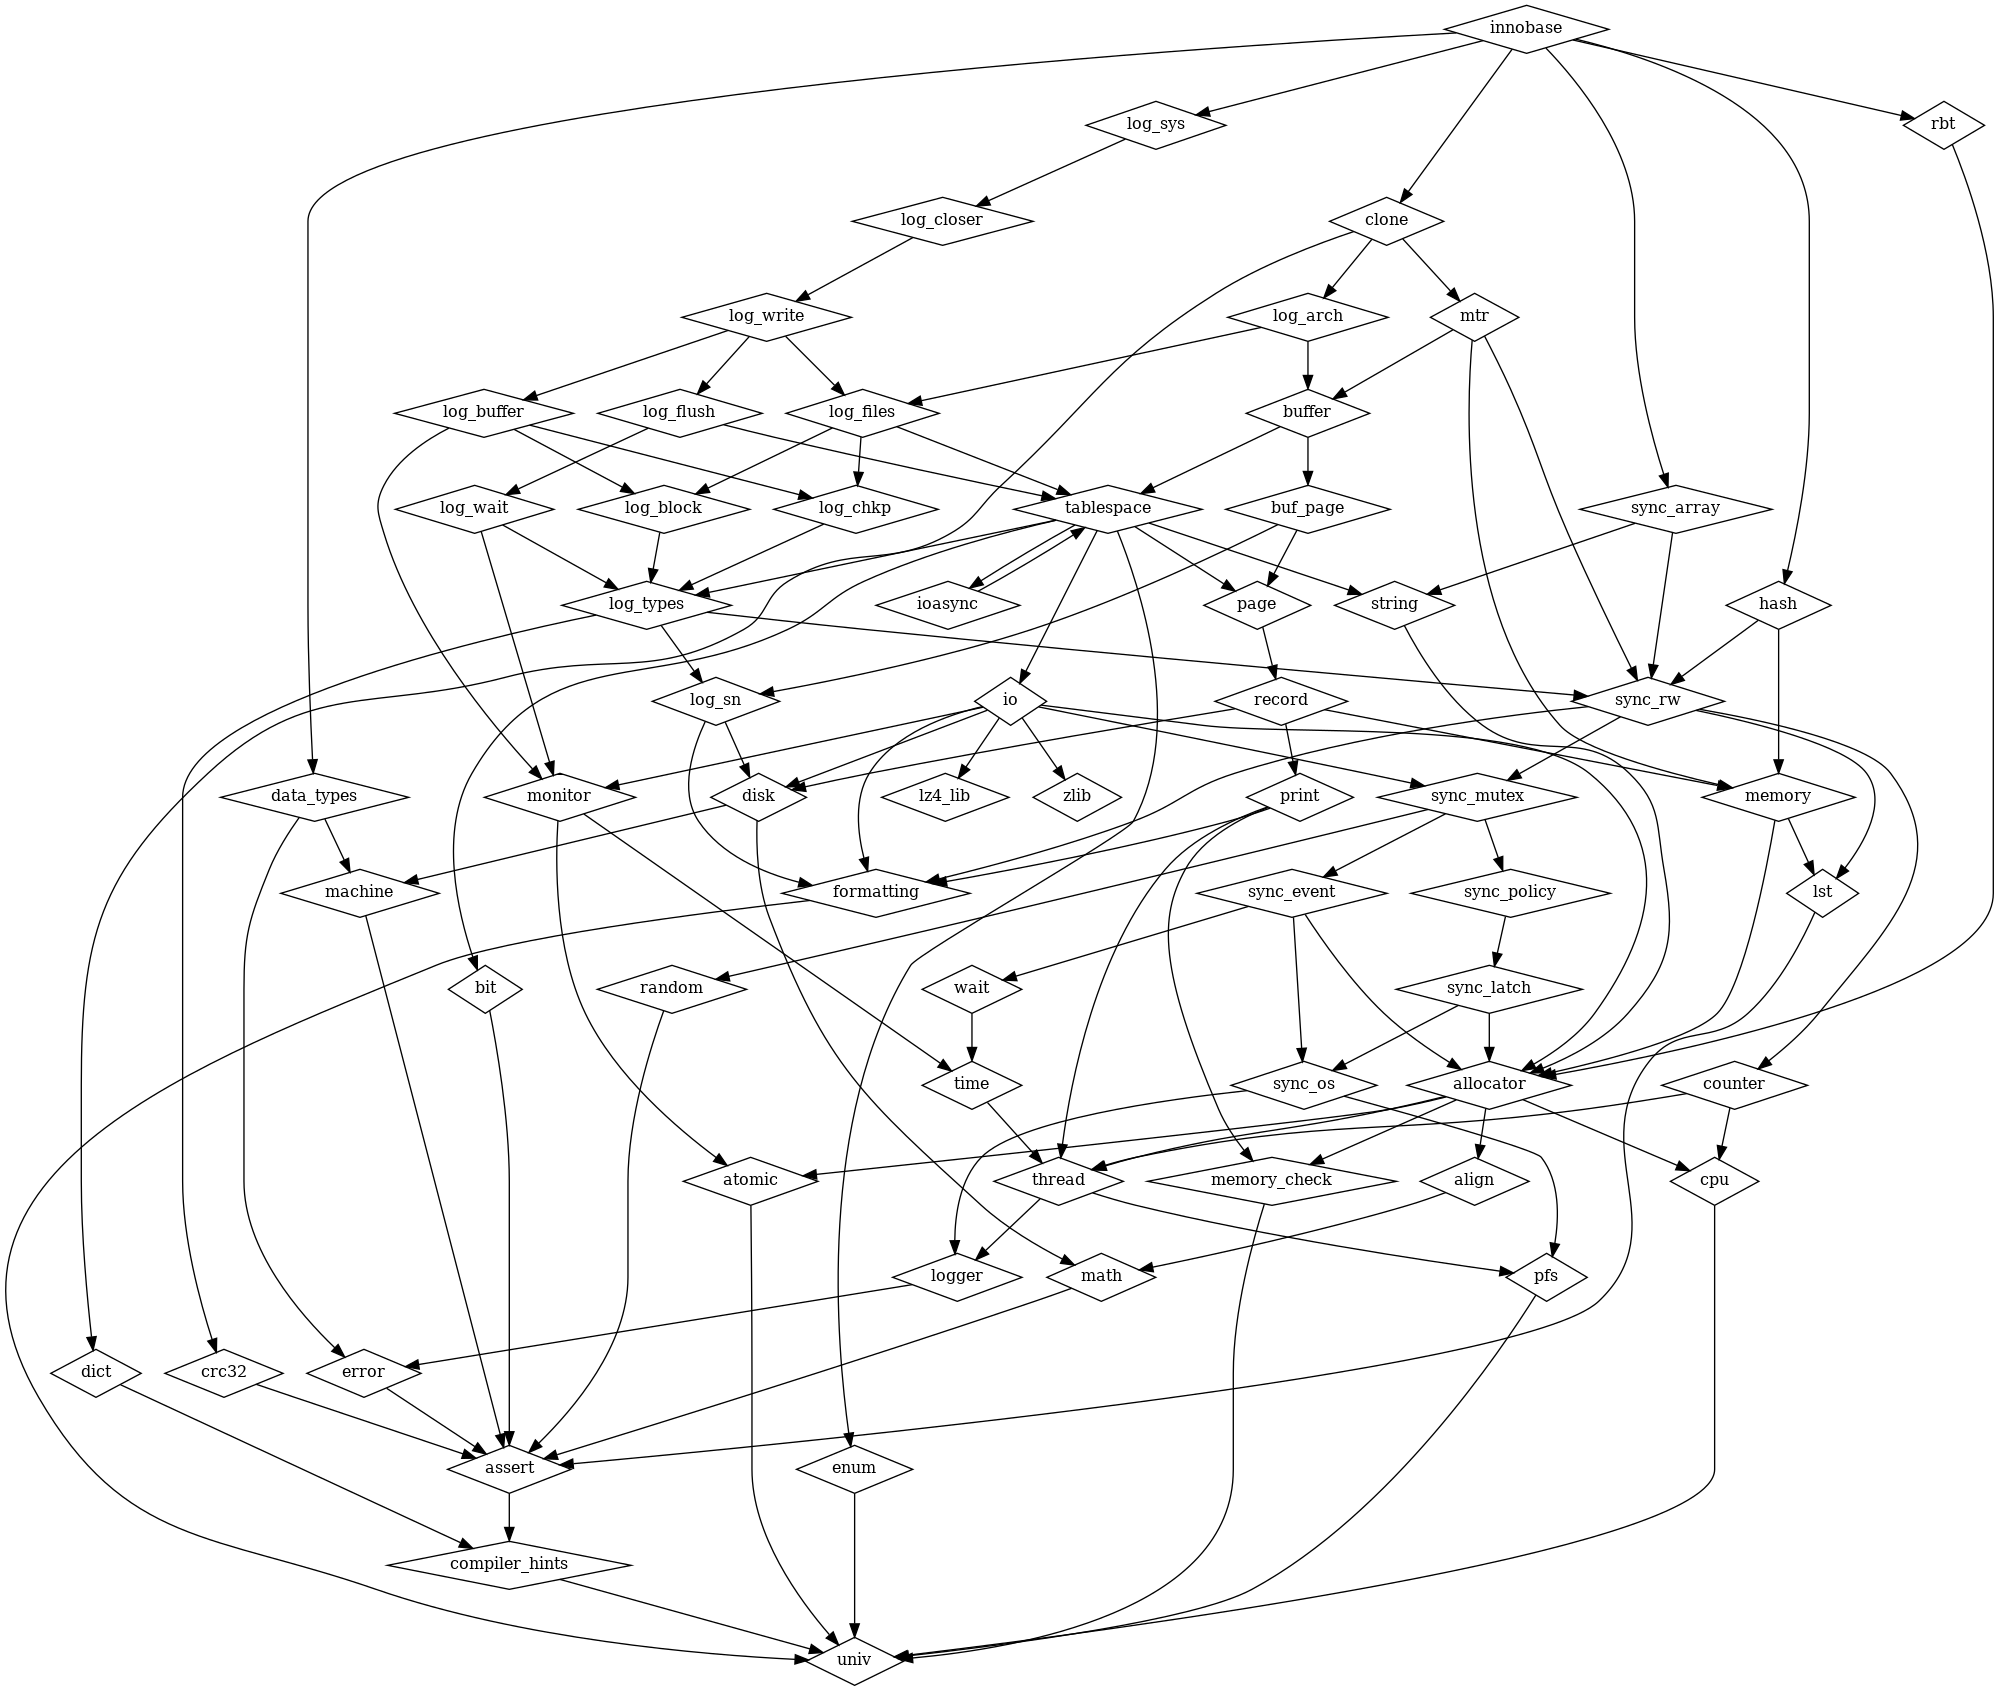
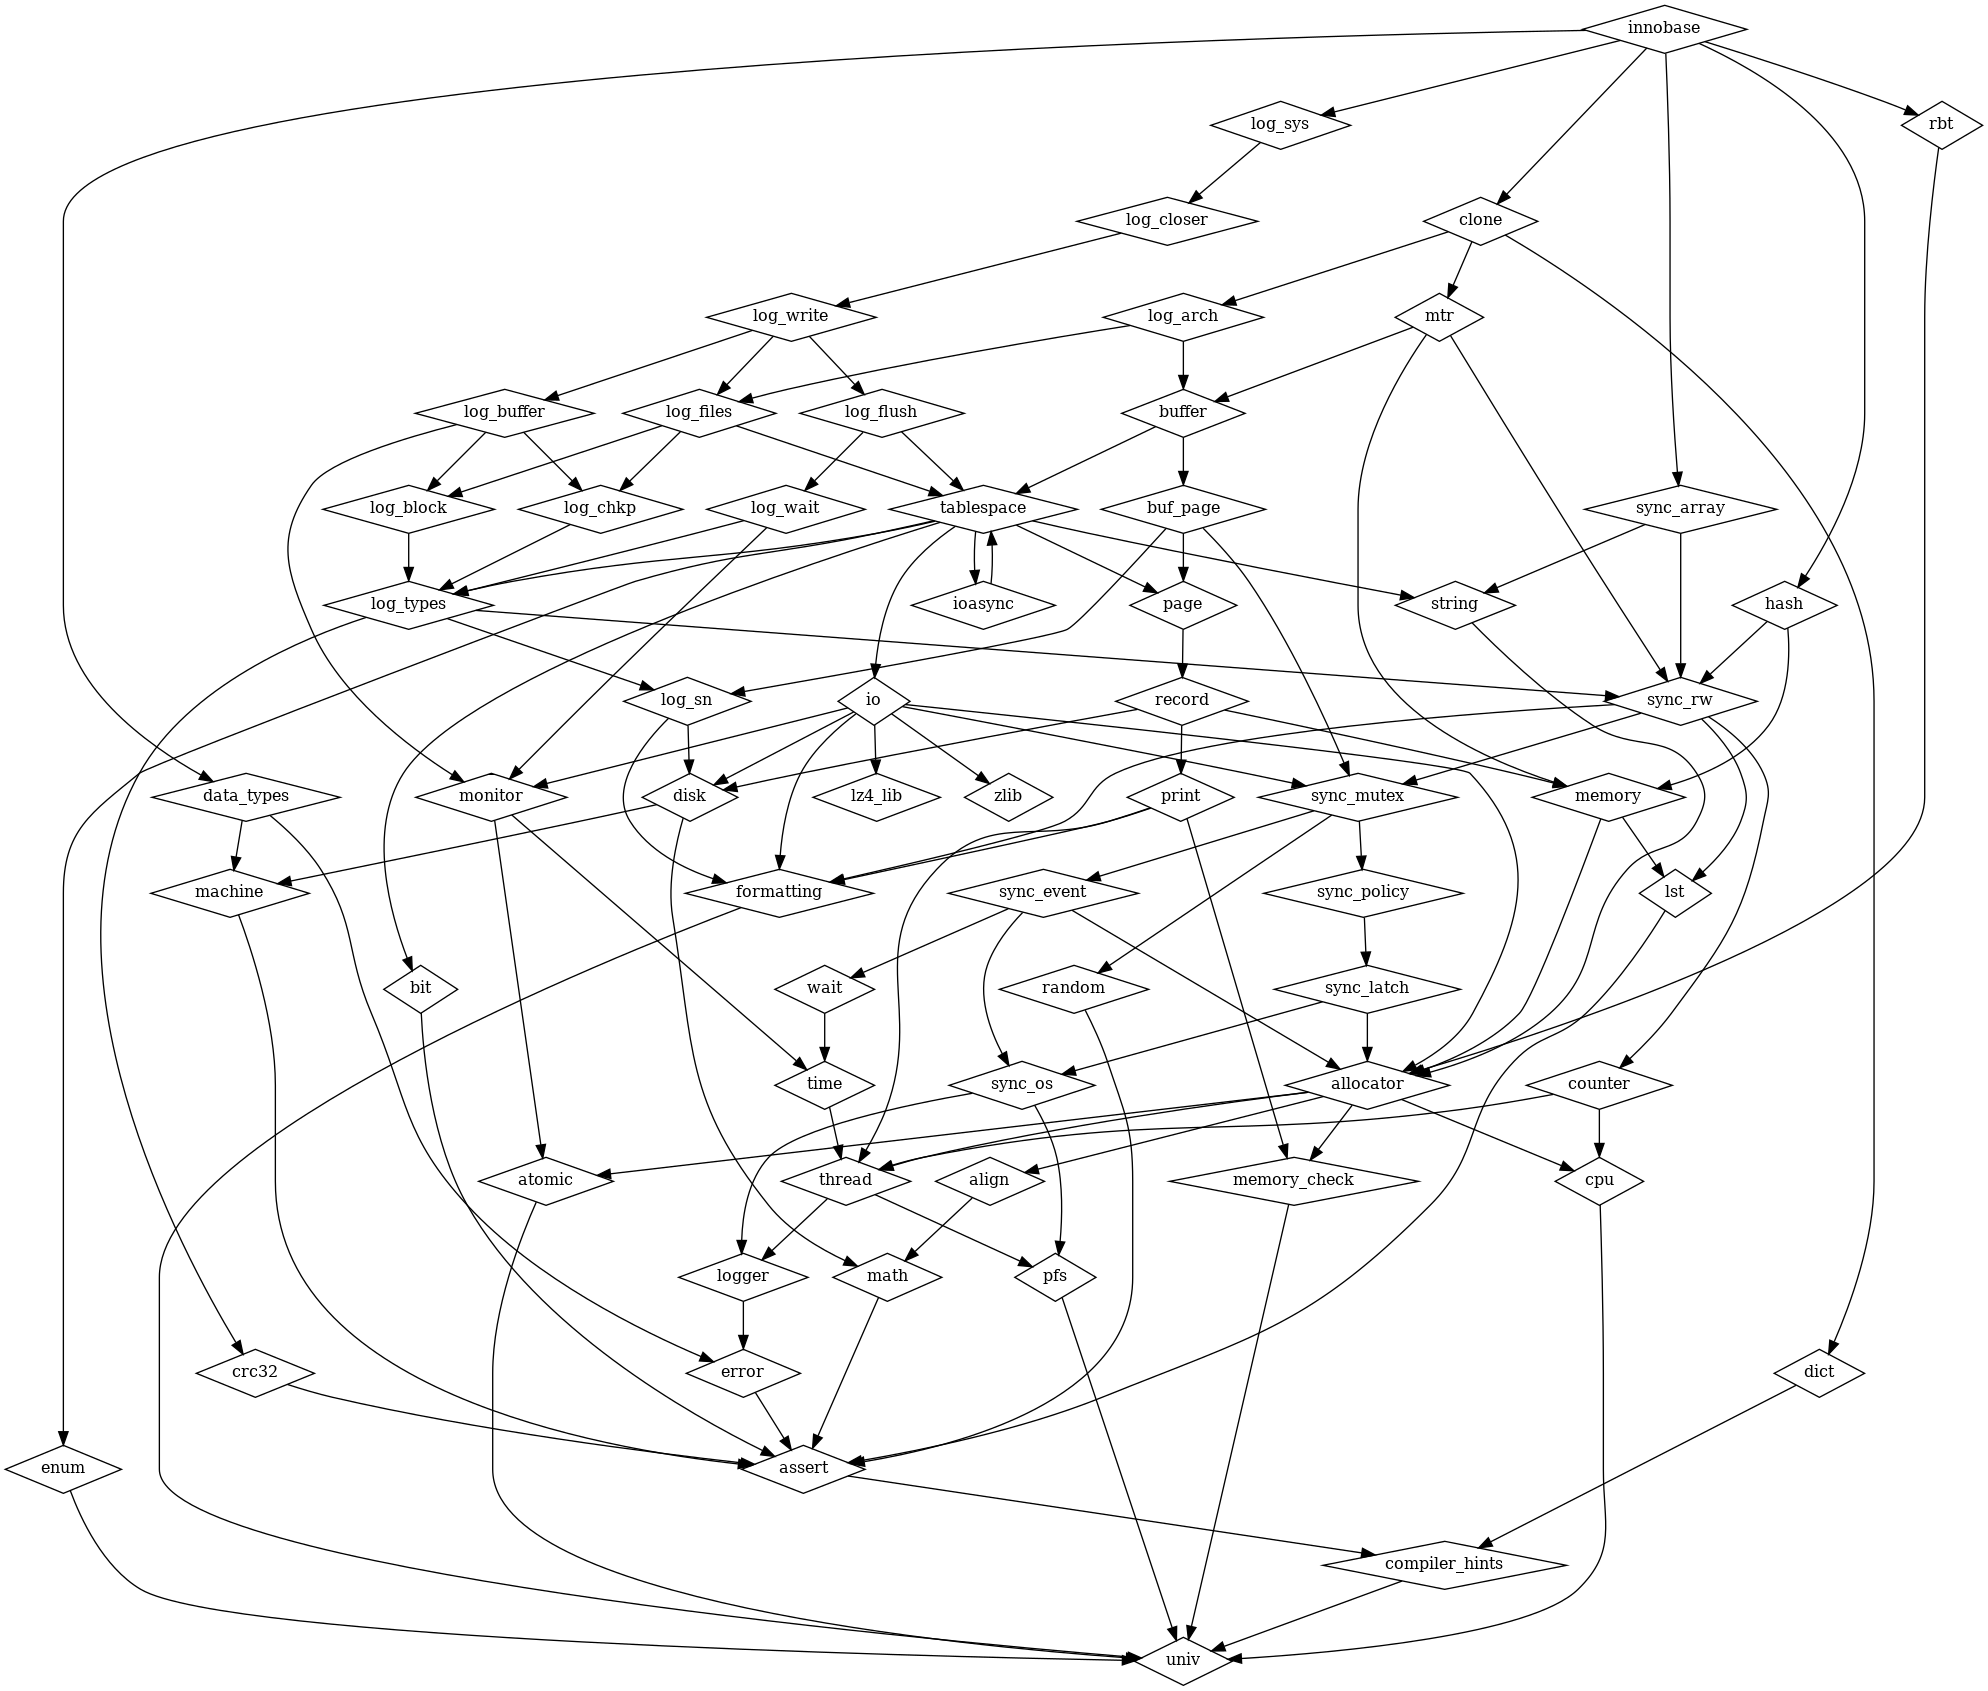
Extend buf_page library

diff --git a/storage/innobase/buf/buf0lru.cc b/storage/innobase/buf/buf0lru.cc
@@ -42,23 +42,23 @@ this program; if not, write to the Free Software Foundation, Inc.,
 #include <innodb/buffer/buf_pool_from_array.h>
 #include <innodb/buffer/buf_get_withdraw_depth.h>
 #include <innodb/buf_page/buf_page_alloc_descriptor.h>
-#include <innodb/buffer/buf_page_free_descriptor.h>
+#include <innodb/buf_page/buf_page_free_descriptor.h>
 #include <innodb/buffer/buf_page_get_mutex.h>
 #include <innodb/buffer/buf_page_unset_sticky.h>
 #include <innodb/buffer/buf_page_get_io_fix_unlocked.h>
 #include <innodb/buffer/buf_page_get_io_fix.h>
 #include <innodb/buffer/buf_page_set_io_fix.h>
 #include <innodb/buffer/buf_page_set_old.h>
-#include <innodb/buffer/buf_page_is_old.h>
+#include <innodb/buf_page/buf_page_is_old.h>
 #include <innodb/buffer/buf_page_can_relocate.h>
 #include <innodb/buf_page/buf_page_in_file.h>
 #include <innodb/buf_page/buf_page_get_state.h>
 #include <innodb/buffer/buf_page_belongs_to_unzip_LRU.h>
 #include <innodb/buffer/buf_block_set_state.h>
 #include <innodb/buffer/buf_pool_from_bpage.h>
-#include <innodb/buffer/buf_page_set_state.h>
+#include <innodb/buf_page/buf_page_set_state.h>
 #include <innodb/buffer/buf_pool_t.h>
-#include <innodb/buffer/buf_page_is_accessed.h>
+#include <innodb/buf_page/buf_page_is_accessed.h>
 #include <innodb/buffer/CheckInLRUList.h>
 #include <innodb/buffer/CheckInFreeList.h>
 #include <innodb/buffer/CheckUnzipLRUAndLRUList.h>

diff --git a/storage/innobase/buf/buf0buf.cc b/storage/innobase/buf/buf0buf.cc
@@ -83,7 +83,7 @@ this program; if not, write to the Free Software Foundation, Inc.,
 #include <innodb/buffer/buf_pool_get.h>
 #include <innodb/buffer/buf_block_fix.h>
 #include <innodb/buffer/buf_block_buf_fix_dec.h>
-#include <innodb/buffer/buf_page_free_descriptor.h>
+#include <innodb/buf_page/buf_page_free_descriptor.h>
 #include <innodb/buffer/buf_page_set_accessed.h>
 #include <innodb/buf_page/buf_page_alloc_descriptor.h>
 #include <innodb/buffer/buf_page_get_block.h>
@@ -102,7 +102,7 @@ this program; if not, write to the Free Software Foundation, Inc.,
 #include <innodb/buffer/buf_pool_get_curr_size.h>
 #include <innodb/buffer/buf_pool_from_bpage.h>
 #include <innodb/buffer/buf_chunk_t.h>
-#include <innodb/buffer/buf_page_is_accessed.h>
+#include <innodb/buf_page/buf_page_is_accessed.h>
 #include <innodb/time/ut_time_ms.h>
 #include <innodb/buffer/CheckInLRUList.h>
 #include <innodb/buffer/buf_block_get_state.h>

diff --git a/storage/innobase/buf/buf0flu.cc b/storage/innobase/buf/buf0flu.cc
@@ -60,11 +60,11 @@ this program; if not, write to the Free Software Foundation, Inc.,
 #include <innodb/buffer/buf_page_set_io_fix.h>
 #include <innodb/buffer/buf_page_get_mutex.h>
 #include <innodb/buf_page/buf_page_set_flush_type.h>
-#include <innodb/buffer/buf_page_is_old.h>
+#include <innodb/buf_page/buf_page_is_old.h>
 #include <innodb/buffer/buf_pool_from_bpage.h>
 #include <innodb/buf_page/buf_page_in_file.h>
 #include <innodb/buf_page/buf_page_get_state.h>
-#include <innodb/buffer/buf_page_set_state.h>
+#include <innodb/buf_page/buf_page_set_state.h>
 #include <innodb/buffer/buf_pool_t.h>
 #include <innodb/time/ut_time_ms.h>
 #include <innodb/ioasync/os_aio_wait_until_no_pending_writes.h>

diff --git a/storage/innobase/buf/buf0rea.cc b/storage/innobase/buf/buf0rea.cc
@@ -38,7 +38,7 @@ this program; if not, write to the Free Software Foundation, Inc.,
 #include <innodb/buffer/buf_pool_get.h>
 #include <innodb/buf_page/buf_page_get_state.h>
 #include <innodb/buffer/buf_pool_t.h>
-#include <innodb/buffer/buf_page_is_accessed.h>
+#include <innodb/buf_page/buf_page_is_accessed.h>
 #include <innodb/ioasync/os_aio_simulated_wake_handler_threads.h>
 #include <innodb/ioasync/os_aio_simulated_put_read_threads_to_sleep.h>
 #include <innodb/io/IORequest.h>

diff --git a/storage/innobase/libs/buffer/src/buf_chunk_not_freed.cpp b/storage/innobase/libs/buffer/src/buf_chunk_not_freed.cpp
@@ -4,8 +4,8 @@
 #include <innodb/buffer/buf_chunk_t.h>
 #include <innodb/buffer/buf_block_get_state.h>
 #include <innodb/buffer/buf_flush_ready_for_replace.h>
-#include <innodb/buffer/buf_page_mutex_enter.h>
-#include <innodb/buffer/buf_page_mutex_exit.h>
+#include <innodb/buf_page/buf_page_mutex_enter.h>
+#include <innodb/buf_page/buf_page_mutex_exit.h>
 #include <innodb/error/ut_error.h>
 
 /** Checks that all file pages in the buffer chunk are in a replaceable state.

diff --git a/storage/innobase/clone/clone0snapshot.cc b/storage/innobase/clone/clone0snapshot.cc
@@ -38,8 +38,8 @@ this program; if not, write to the Free Software Foundation, Inc.,
 #include <innodb/buffer/Page_fetch.h>
 #include <innodb/log_types/log_sys.h>
 #include <innodb/log_types/log_get_lsn.h>
-#include <innodb/buffer/buf_page_mutex_exit.h>
-#include <innodb/buffer/buf_page_mutex_enter.h>
+#include <innodb/buf_page/buf_page_mutex_exit.h>
+#include <innodb/buf_page/buf_page_mutex_enter.h>
 
 #include "buf0buf.h"
 #include "fil0fil.h"

diff --git a/storage/innobase/include/buf0buf.h b/storage/innobase/include/buf0buf.h
@@ -46,7 +46,7 @@ this program; if not, write to the Free Software Foundation, Inc.,
 #include <innodb/buffer/buf_pool_info_t.h>
 #include <innodb/buffer/buf_pools_list_size_t.h>
 #include <innodb/buf_page/flags.h>
-#include <innodb/buffer/buf_page_print_flags.h>
+#include <innodb/buf_page/buf_page_print_flags.h>
 #include <innodb/buffer/BPageMutex.h>
 #include <innodb/buffer/BPageLock.h>
 #include <innodb/buffer/BufListMutex.h>

diff --git a/storage/innobase/libs/buffer/src/buf_page_can_relocate.cpp b/storage/innobase/libs/buffer/src/buf_page_can_relocate.cpp
@@ -2,10 +2,10 @@
 
 #ifndef UNIV_HOTBACKUP
 
-#include <innodb/buf_page/buf_page_t.h>
-#include <innodb/buffer/buf_page_get_mutex.h>
 #include <innodb/buf_page/buf_page_in_file.h>
+#include <innodb/buf_page/buf_page_t.h>
 #include <innodb/buffer/buf_page_get_io_fix.h>
+#include <innodb/buffer/buf_page_get_mutex.h>
 #include <innodb/sync_mutex/mutex_own.h>
 
 /** Determine if a buffer block can be relocated in memory.  The block

diff --git a/storage/innobase/libs/buffer/src/buf_block_get_freed_page_clock.cpp b/storage/innobase/libs/buffer/src/buf_block_get_freed_page_clock.cpp
@@ -2,7 +2,7 @@
 
 #ifndef UNIV_HOTBACKUP
 
-#include <innodb/buffer/buf_page_get_freed_page_clock.h>
+#include <innodb/buf_page/buf_page_get_freed_page_clock.h>
 #include <innodb/buffer/buf_block_t.h>
 
 /** Reads the freed_page_clock of a buffer block.

diff --git a/storage/innobase/libs/buffer/src/buf_block_set_state.cpp b/storage/innobase/libs/buffer/src/buf_block_set_state.cpp
@@ -1,6 +1,6 @@
 #include <innodb/buffer/buf_block_set_state.h>
 
-#include <innodb/buffer/buf_page_set_state.h>
+#include <innodb/buf_page/buf_page_set_state.h>
 #include <innodb/buf_page/buf_page_state.h>
 #include <innodb/buffer/buf_block_t.h>
 

diff --git a/storage/innobase/libs/buf_page/src/buf_page_set_state.cpp b/storage/innobase/libs/buf_page/src/buf_page_set_state.cpp
@@ -1,4 +1,4 @@
-#include <innodb/buffer/buf_page_set_state.h>
+#include <innodb/buf_page/buf_page_set_state.h>
 
 #include <innodb/buf_page/buf_page_t.h>
 #include <innodb/buf_page/buf_page_state.h>

diff --git a/storage/innobase/libs/buf_page/src/buf_page_get_freed_page_clock.cpp b/storage/innobase/libs/buf_page/src/buf_page_get_freed_page_clock.cpp
@@ -1,4 +1,4 @@
-#include <innodb/buffer/buf_page_get_freed_page_clock.h>
+#include <innodb/buf_page/buf_page_get_freed_page_clock.h>
 
 #ifndef UNIV_HOTBACKUP
 
